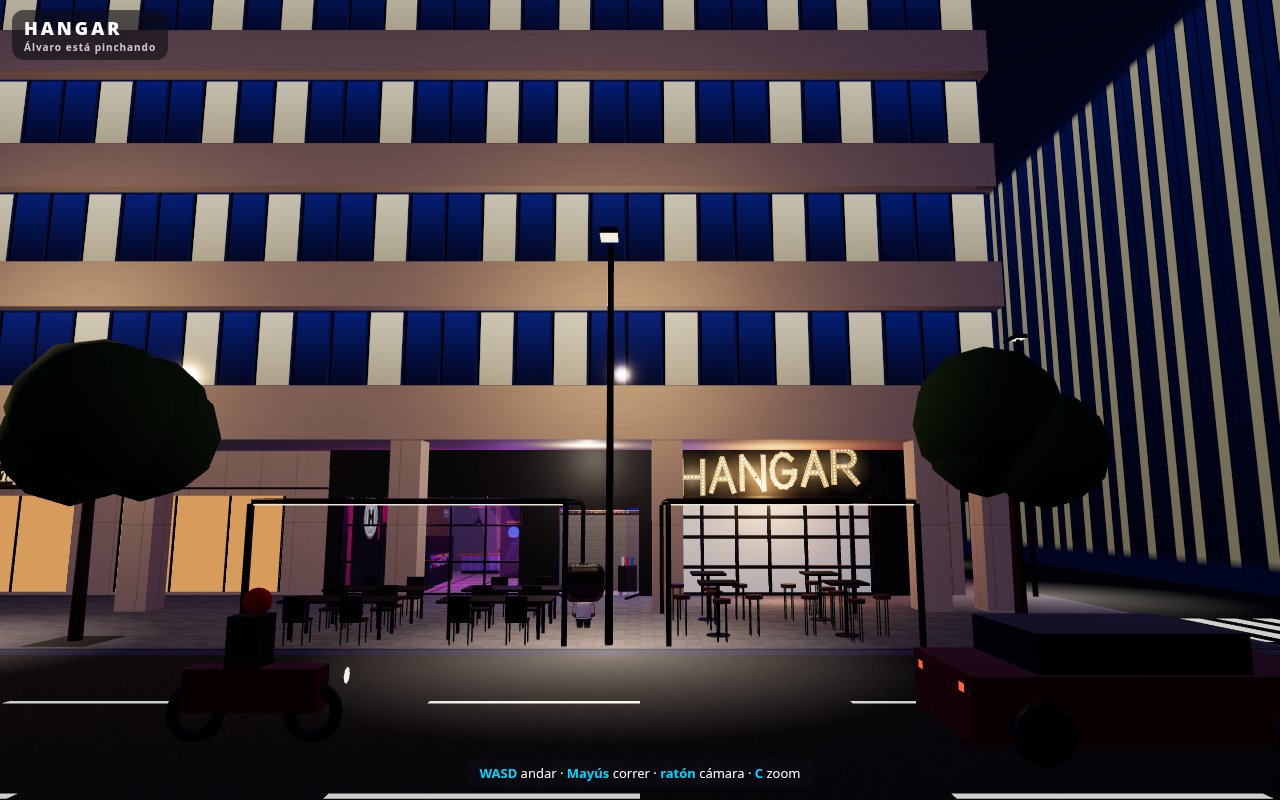
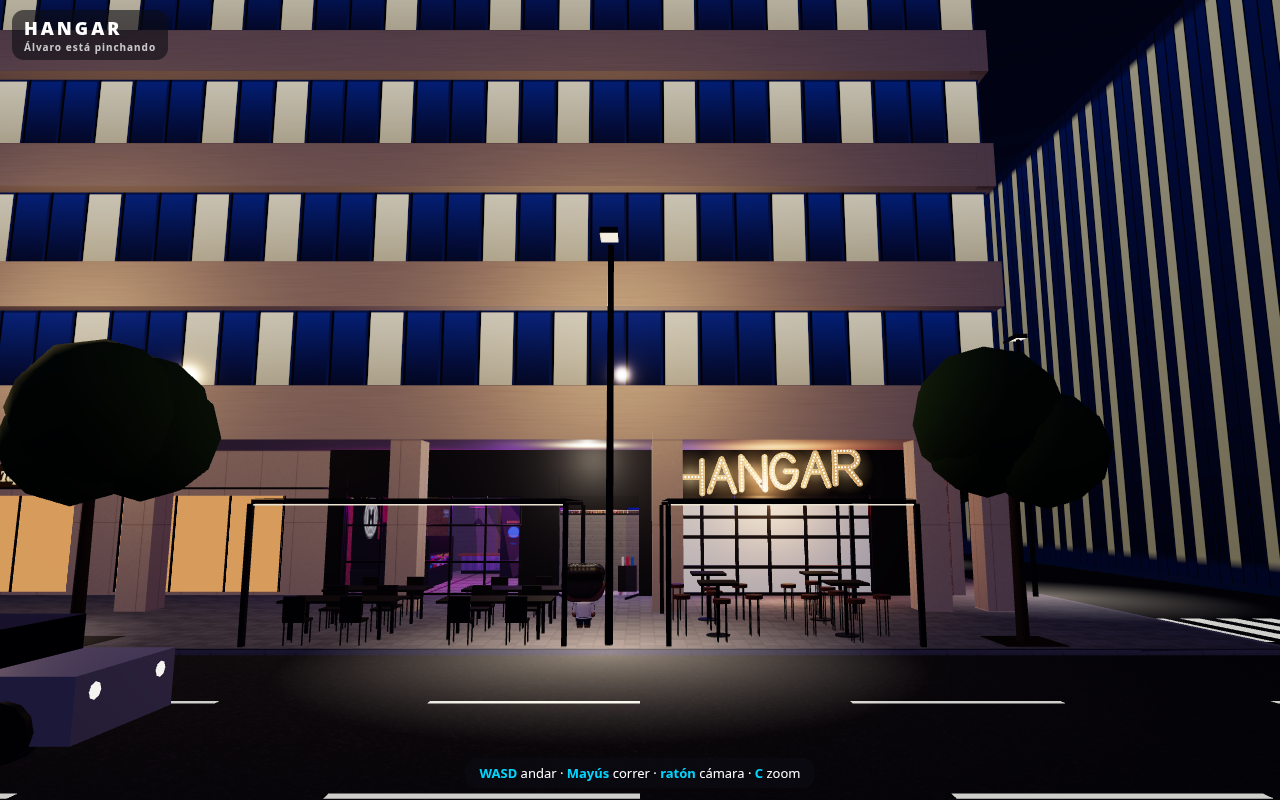
Segunda columna; rótulo con letras rectas y bombillas uniformes

diff --git a/index.html b/index.html
@@ -890,7 +890,8 @@ const stick = textTex(512, 256, (x, w, h) => { x.fillStyle = '#18181c'; x.fillRe
 BC(...[P.columna[0], 0, P.columna[1], P.columna[2], H, P.columna[3]], M.black);
 // pilares interiores forrados (paneles grises en marco negro) junto a la cristalera y a la barra
 function panelPillar(x, z, s = 0.6) { BC(x - s / 2, 0, z - s / 2, x + s / 2, H, z + s / 2, M.frame); for (const [nx, nz] of [[0, 1], [0, -1], [1, 0], [-1, 0]]) for (let j = 0; j < 4; j++) for (let k = 0; k < 2; k++) { const w = s / 2 - 0.05, hh = H / 4 - 0.07; const px = x + nx * (s / 2 + 0.005) + (nz ? (k - 0.5) * (s / 2) : 0), pz = z + nz * (s / 2 + 0.005) + (nx ? (k - 0.5) * (s / 2) : 0); PL(w, hh, M.panel, px, j * H / 4 + H / 8, pz, nx ? nx * Math.PI / 2 : (nz < 0 ? Math.PI : 0)); } }
-// (el plano solo tiene una columna: no se añaden pilares inventados)
+// segunda columna (indicada por Antonio): igual que la primera, misma distancia a la barra, bajo la 9ª y última lámpara (x 5.2), antes del escenario
+{ const cw = P.columna[2] - P.columna[0], cx = 5.2; BC(cx - cw / 2, 0, P.columna[1], cx + cw / 2, H, P.columna[3], M.black); }
 // --- barra (~11 m): frente de tablas lila/azul, encimera de madera clara
 { const [x0, z0, x1, z1] = P.barra, xa = x0 + 2.0; col(x0, z0, x1, z1); B(xa, 0, z0 + 0.1, x1, 1.0, z1, M.boards); B(xa, 1.0, z0, x1, 1.06, z1 + 0.08, M.wood); B(xa, 0, z1 - 0.02, x1, 0.12, z1 + 0.02, M.black);
   // tramo izquierdo rebajado accesible (~0.80 m) con hueco libre para las rodillas en el lado del cliente
@@ -1000,14 +1001,17 @@ const MARQ = (() => { const [sx0, sx1] = P.crisDer, SZ = FZ + 0.2;
   const slT = textTex(64, 256, (x, w, h) => { x.fillStyle = '#16161a'; x.fillRect(0, 0, w, h); for (let y = 0; y < h; y += 16) { x.fillStyle = '#2a2a30'; x.fillRect(0, y, w, 9); x.fillStyle = '#0a0a0c'; x.fillRect(0, y + 13, w, 3); } }); slT.wrapS = slT.wrapT = THREE.RepeatWrapping; slT.repeat.set((sx1 - sx0) * 2, 1.6 / 1.6 * 3);
   { const m = new THREE.Mesh(new THREE.PlaneGeometry(sx1 - sx0 + 0.3, 1.6), new THREE.MeshStandardMaterial({ map: slT, roughness: 0.55, metalness: 0.3 })); m.position.set((sx0 + sx1) / 2, 3.8, SZ - 0.02); scene.add(m); }
   const arc = (cx, cy, rx, ry, a0, a1, n) => { const o = []; for (let i = 0; i <= n; i++) { const a = (a0 + (a1 - a0) * i / n) * Math.PI / 180; o.push([cx + rx * Math.cos(a), cy + ry * Math.sin(a)]); } return o; };
-  const L = { H: [[[0, 0], [0, 1]], [[0.66, 0], [0.66, 1]], [[0, 0.5], [0.66, 0.5]]], A: [[[0, 0], [0.34, 1], [0.68, 0]], [[0.16, 0.38], [0.52, 0.38]]], N: [[[0, 0], [0, 1], [0.66, 0], [0.66, 1]]],
-    G: [arc(0.35, 0.5, 0.35, 0.5, 45, 360, 12), [[0.38, 0.46], [0.7, 0.46]]], R: [[[0, 0], [0, 1], [0.36, 1]].concat(arc(0.36, 0.75, 0.27, 0.25, 90, -90, 8)).concat([[0, 0.5]]), [[0.3, 0.5], [0.7, 0]]] };
-  const LH = 1.0, SW = 0.15, DEP = 0.12, gap = 0.26, word = 'HANGAR', wid = c => c === 'G' || c === 'R' ? 0.7 : c === 'A' ? 0.68 : 0.66;
+  const L = { H: [[[0, 0], [0, 1]], [[0.72, 0], [0.72, 1]], [[0, 0.5], [0.72, 0.5]]], A: [[[0, 0], [0.38, 1], [0.76, 0]], [[0.17, 0.42], [0.59, 0.42]]], N: [[[0, 0], [0, 1], [0.72, 0], [0.72, 1]]],
+    G: [arc(0.37, 0.5, 0.37, 0.5, 40, 360, 28), [[0.42, 0.5], [0.74, 0.5]]], R: [[[0, 0], [0, 1], [0.42, 1]].concat(arc(0.42, 0.75, 0.27, 0.25, 90, -90, 16)).concat([[0, 0.5]]), [[0.36, 0.5], [0.74, 0]]] };
+  const LH = 1.0, SW = 0.17, DEP = 0.12, gap = 0.22, word = 'HANGAR', wid = c => ({ H: 0.72, A: 0.76, N: 0.72, G: 0.74, R: 0.74 })[c];
   const tot = [...word].reduce((a, c) => a + wid(c) * LH, 0) + gap * 5; let cx = (sx0 + sx1) / 2 - tot / 2; const geos = [], bulbs = [], halos = [];
-  [...word].forEach((c, i) => { const y0 = 3.06 + i * 0.065, x0 = cx; halos.push([x0 + wid(c) * LH / 2, y0 + LH / 2]);
-    for (const pl of L[c]) for (let k = 0; k < pl.length - 1; k++) { const ax = x0 + pl[k][0] * LH, ay = y0 + pl[k][1] * LH, bx = x0 + pl[k + 1][0] * LH, by = y0 + pl[k + 1][1] * LH, len = Math.hypot(bx - ax, by - ay);
-      const g = new THREE.BoxGeometry(len + SW * 0.85, SW, DEP); g.rotateZ(Math.atan2(by - ay, bx - ax)); g.translate((ax + bx) / 2, (ay + by) / 2, SZ + DEP / 2); geos.push(g);
-      const step = LITE ? 0.17 : 0.105, nb = Math.max(1, Math.round(len / step)); for (let j = (k === 0 ? 0 : 1); j <= nb; j++) bulbs.push([ax + (bx - ax) * j / nb, ay + (by - ay) * j / nb]); }
+  const step = LITE ? 0.16 : 0.1, near = (x, y) => bulbs.some(b => Math.hypot(b[0] - x, b[1] - y) < step * 0.6);
+  [...word].forEach((c, i) => { const y0 = 3.06 + i * 0.06, x0 = cx; halos.push([x0 + wid(c) * LH / 2, y0 + LH / 2]); // letras rectas, sin giro; la base sube en línea recta
+    for (const pl of L[c]) { const pts = pl.map(q => [x0 + q[0] * LH, y0 + q[1] * LH]); let tl = 0; const segs = [];
+      for (let k = 0; k < pts.length - 1; k++) { const [ax, ay] = pts[k], [bx, by] = pts[k + 1], len = Math.hypot(bx - ax, by - ay); segs.push([ax, ay, bx, by, len, tl]); tl += len;
+        const g = new THREE.BoxGeometry(len, SW, DEP); g.rotateZ(Math.atan2(by - ay, bx - ax)); g.translate((ax + bx) / 2, (ay + by) / 2, SZ + DEP / 2); geos.push(g); }
+      for (const [px, py] of pts) { const j = new THREE.CylinderGeometry(SW / 2, SW / 2, DEP, 16); j.rotateX(Math.PI / 2); j.translate(px, py, SZ + DEP / 2); geos.push(j); } // uniones redondeadas, trazo limpio
+      const nb = Math.max(1, Math.round(tl / step)); for (let j = 0; j <= nb; j++) { const d = tl * j / nb; const sg = segs.find(sg => d <= sg[5] + sg[4] + 1e-6) || segs[segs.length - 1]; const f = sg[4] ? (d - sg[5]) / sg[4] : 0; const x = sg[0] + (sg[2] - sg[0]) * f, y = sg[1] + (sg[3] - sg[1]) * f; if (!near(x, y)) bulbs.push([x, y]); } }
     cx += wid(c) * LH + gap; });
   const bodyM = std({ color: '#e9cf98', emissive: '#c08a3c', emissiveIntensity: 0.55, roughness: 0.45, metalness: 0.15 });
   for (const g of geos) addG(g, bodyM);
